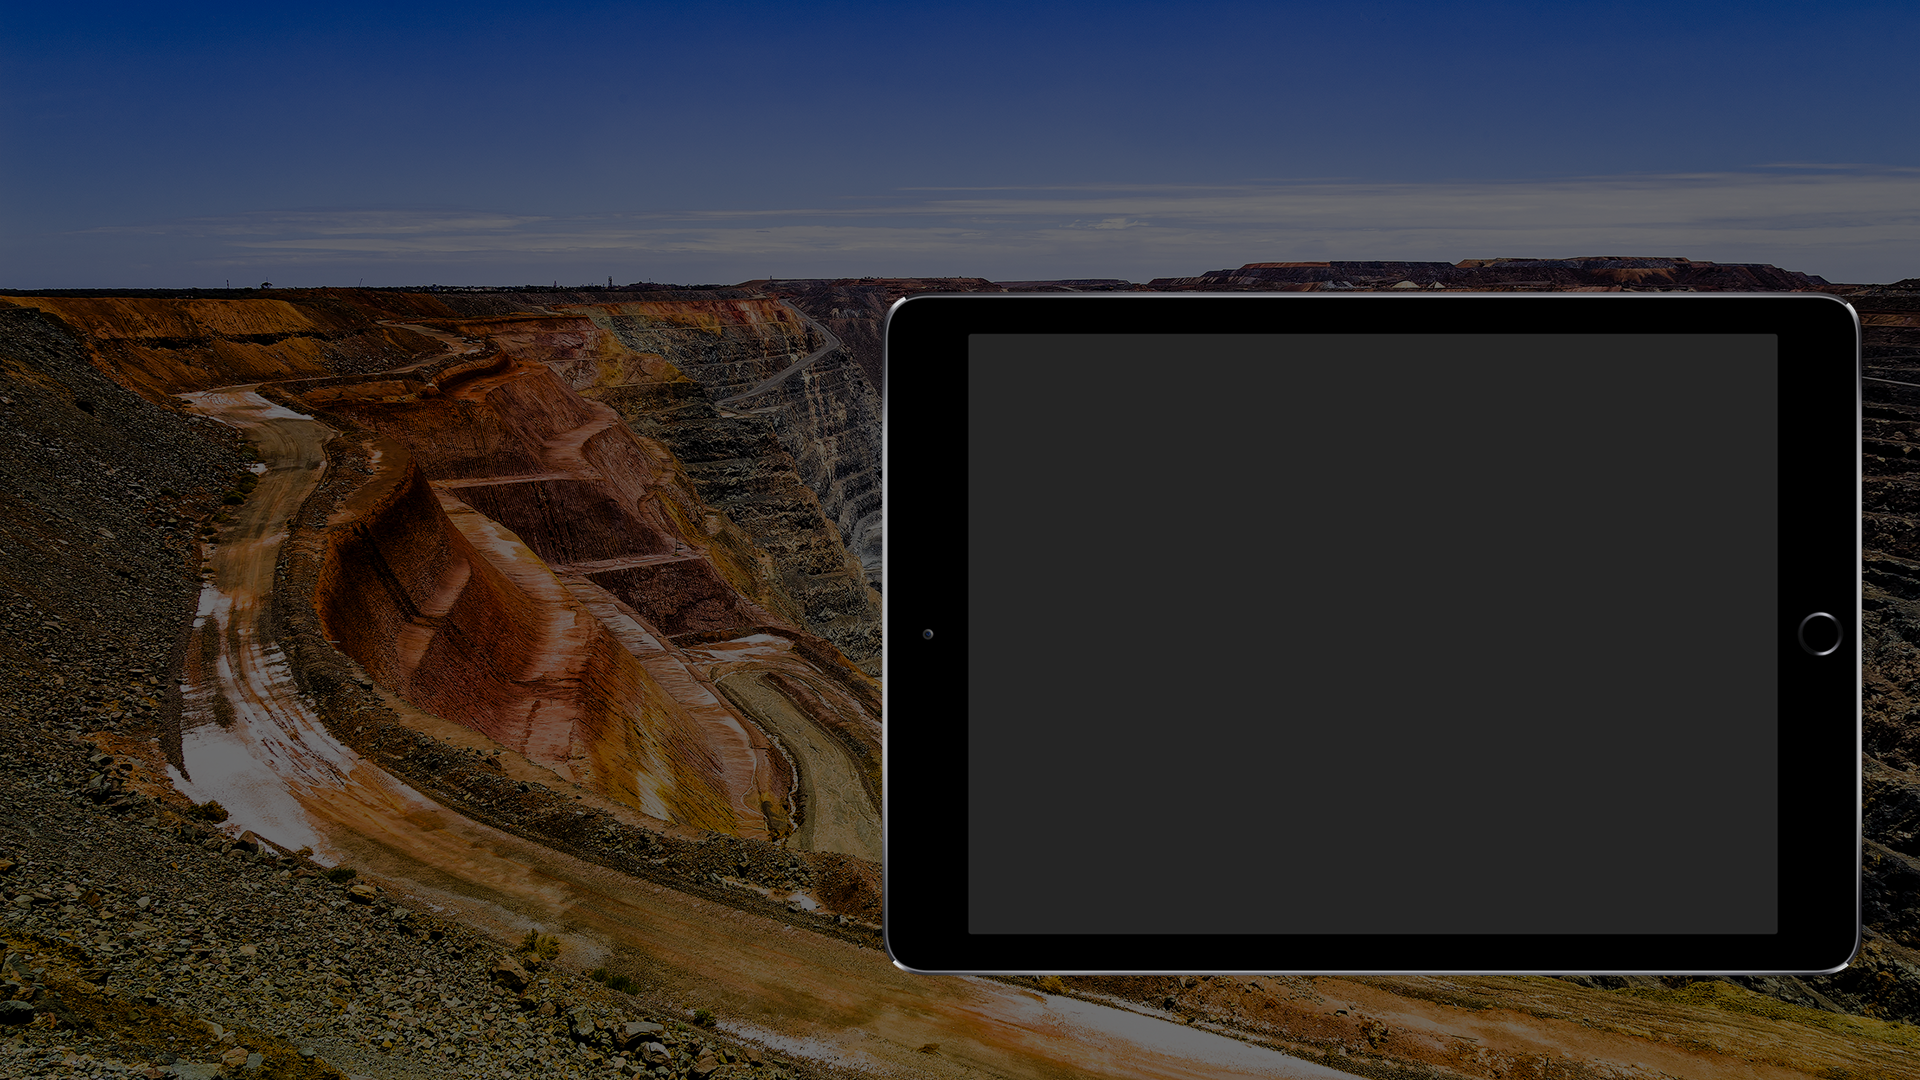
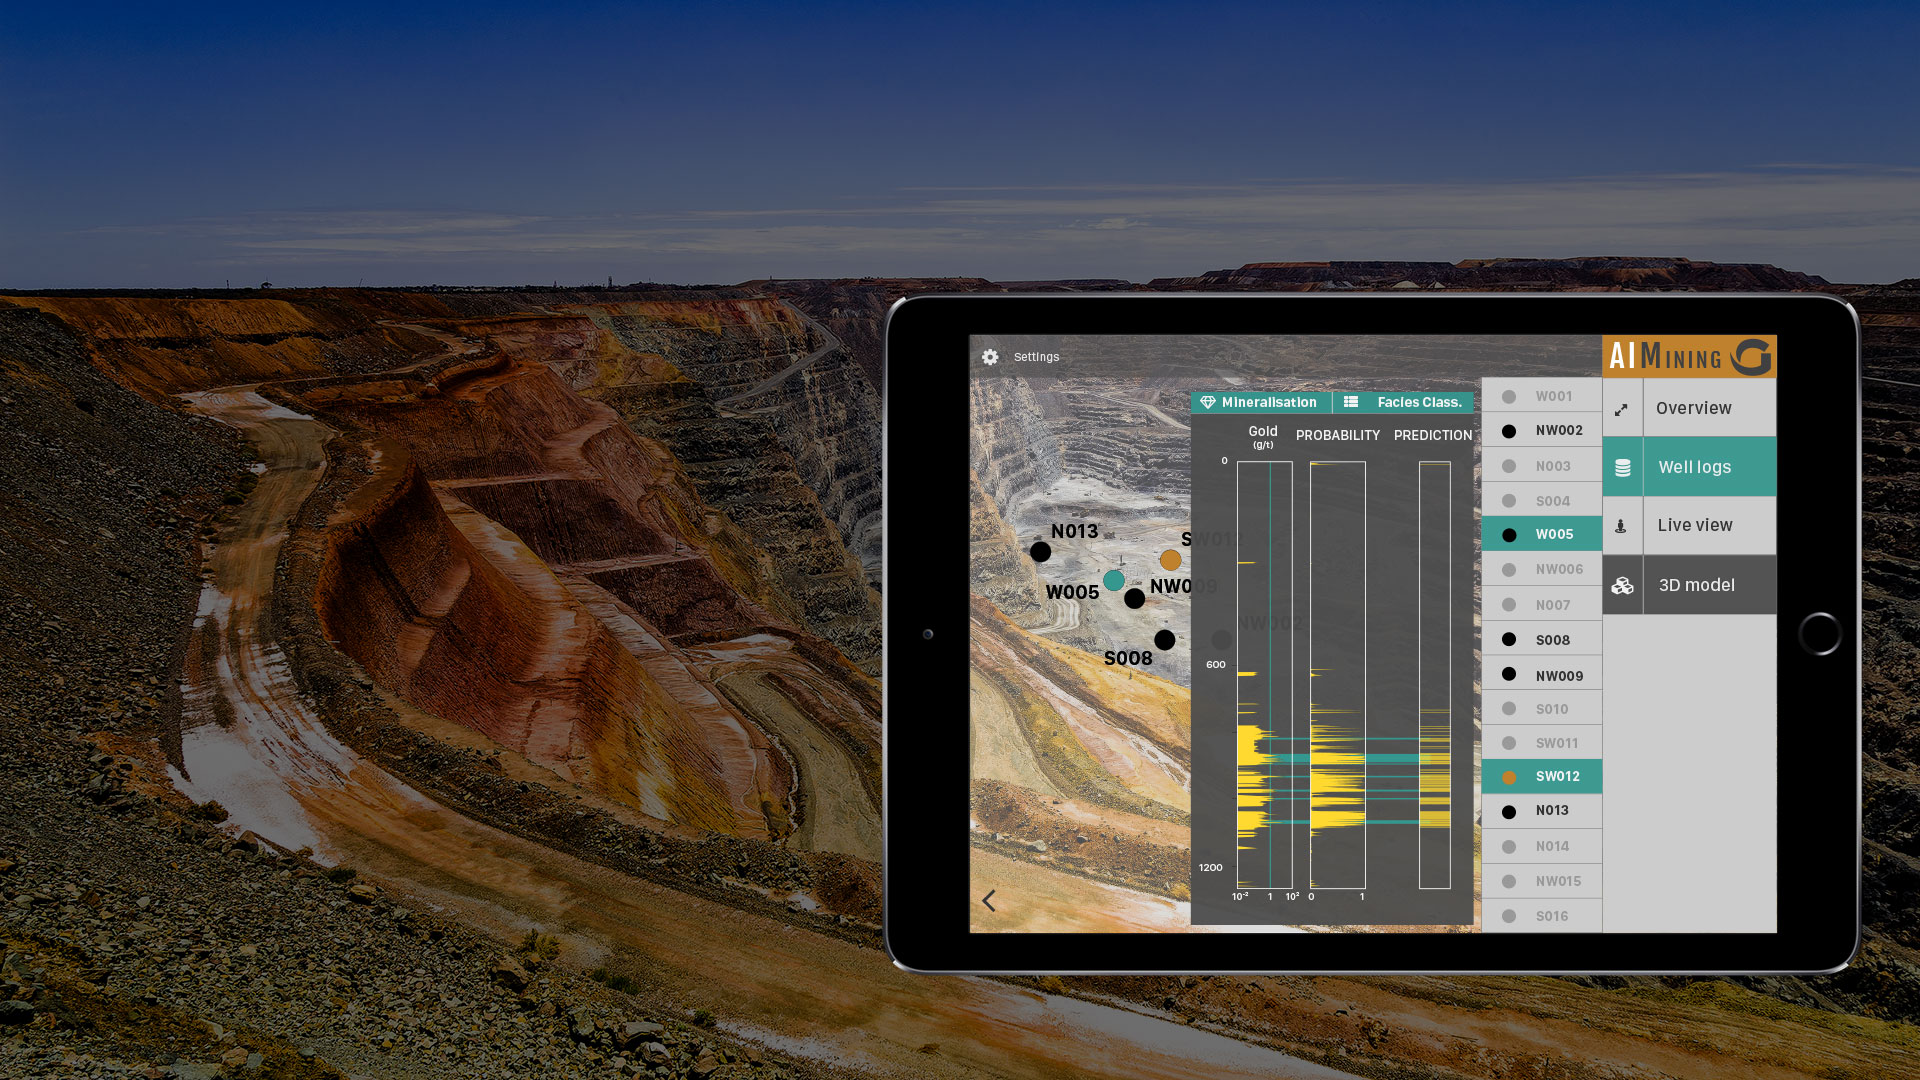
changed background image

Changed region(s): [[0.5, 0.3056, 0.9375, 0.8861]]

diff --git a/index.html b/index.html
@@ -139,7 +139,7 @@
               </div>
               <!-- END SLIDE -->
               <div class="op-left bottom-right full-width full-vh z-index-1" data-vide-bg="assets/video/background.gif" class="image-responsive-height" data-vide-options="loop: true, muted: false, position: 50% 0%"></div>
-              <div class="bottom-right full-width full-vh z-index-1 hidden demo-video-placeholder" data-pages-bg-image="assets/images/background.jpg" class="image-responsive-height"></div>
+              <!-- <div class="bottom-right full-width full-vh z-index-1 hidden demo-video-placeholder" data-pages-bg-image="assets/images/background.jpg" class="image-responsive-height"></div> -->
               <div class="video-overlay z-index-1"></div>
             </div>
         </section>
